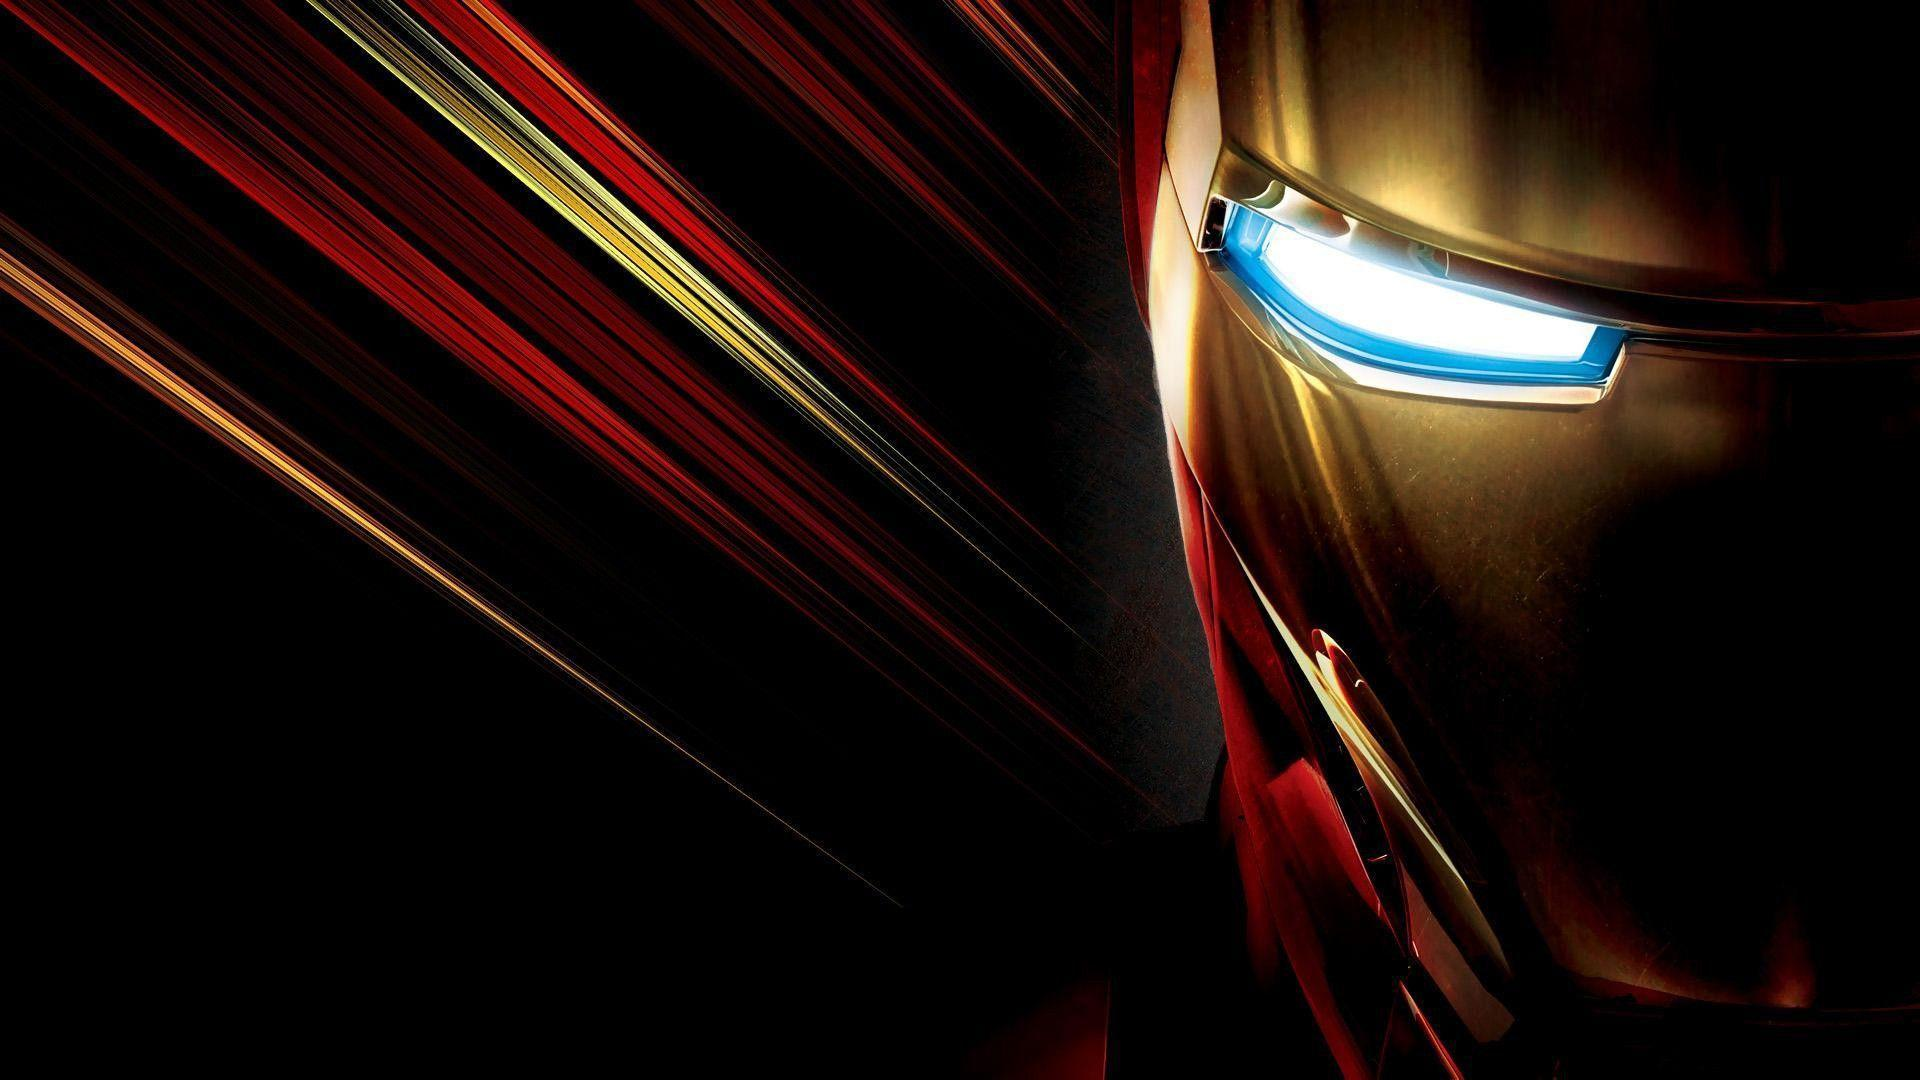
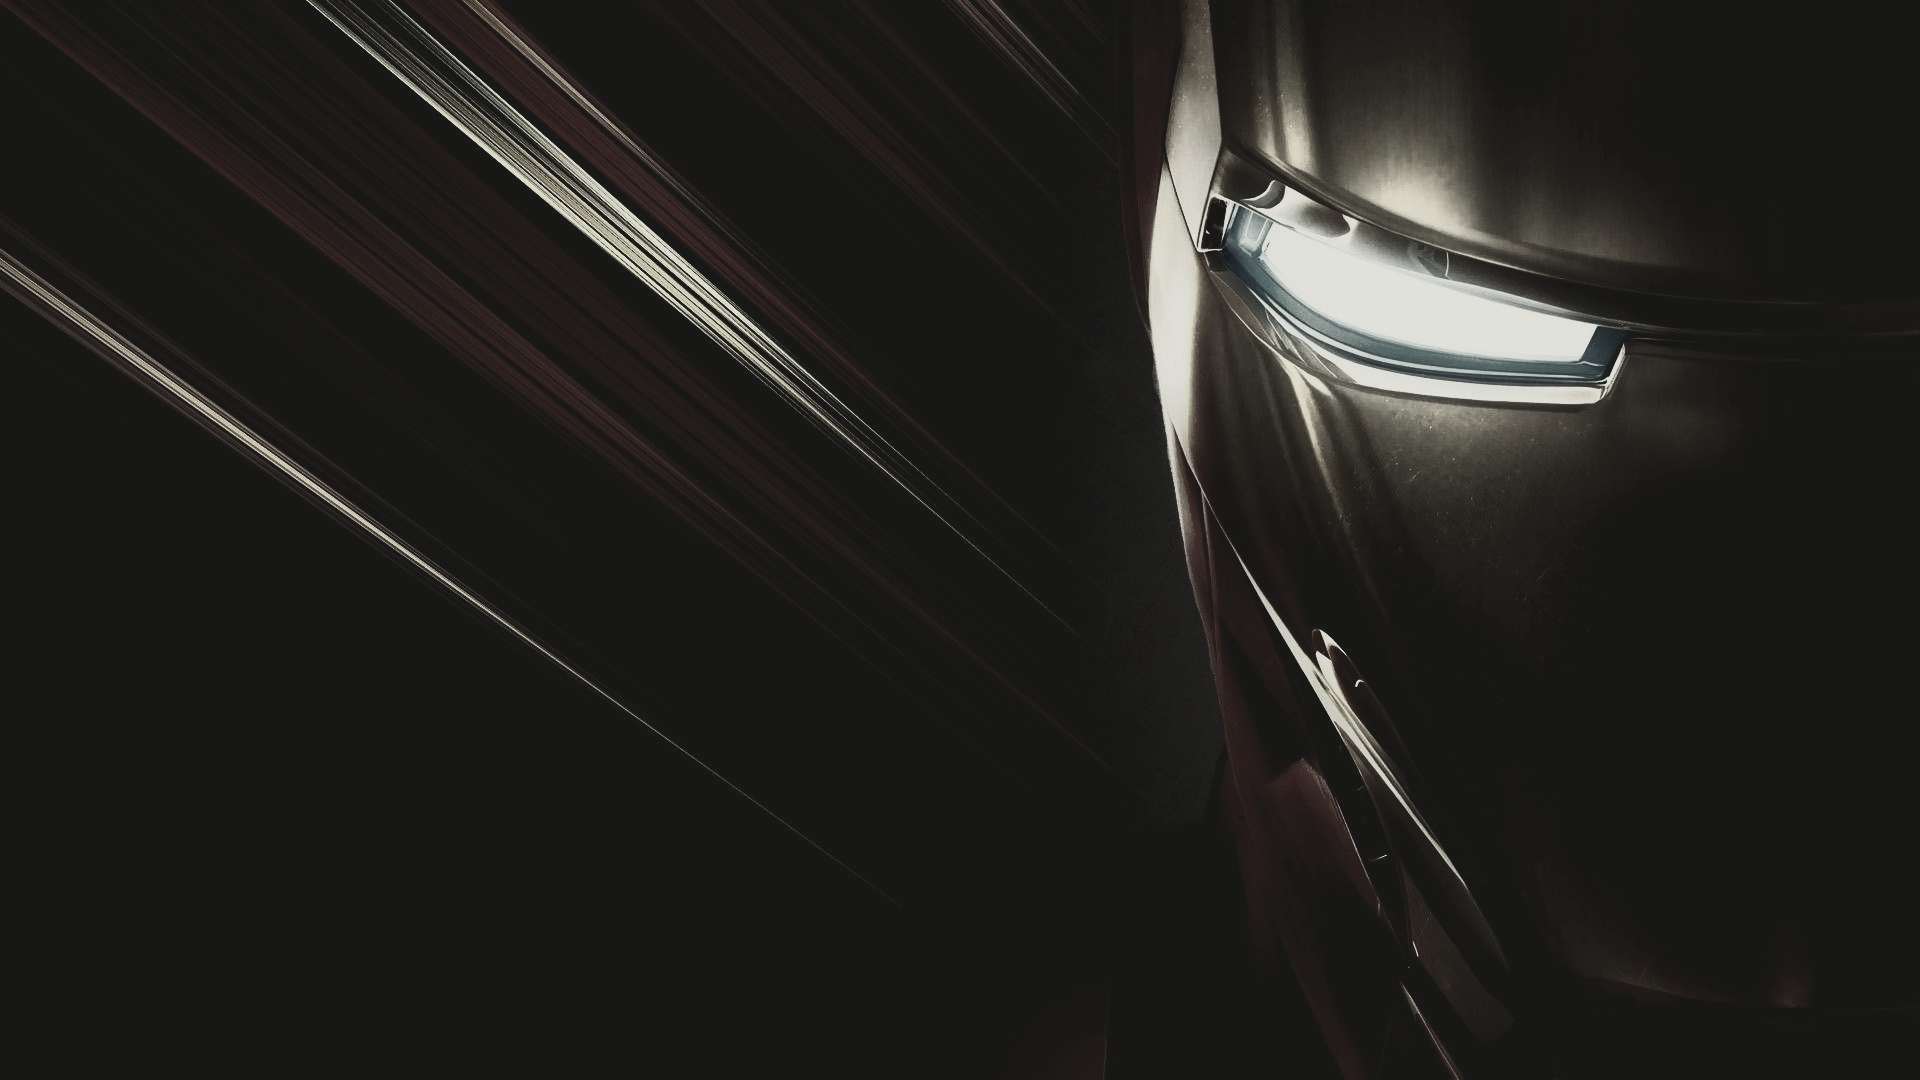
first website

diff --git a/styles.css b/styles.css
@@ -1,13 +1,17 @@
 body{
-    /* background-image: url(img/BG.jpg); */
+    background-image: url(img/BG.jpg);
     background-size: cover;
     font-family: sans-serif;
+  
+    
 }
 header{
    display: flex; 
    justify-content: space-between;
-   height: 100px;
+   height: 80px;
    align-items: center;
+   color:rgb(85, 83, 83);
+   
 }
 ul{
     list-style: none;
@@ -20,7 +24,8 @@ ul{
     width: 30px;
     transform: rotate(180deg);
     align-items: center;
-
+    color: white;
+    height: 70vh;
 }
 .sidebar-left li{
 margin:5px;
@@ -45,30 +50,33 @@ margin:5px;
 /* } */
 .circle{
     display: block;
-    width: 15px;
-    height: 15px;
-    background-color: black;
+    width: 7px;
+    height: 7px;
     border-radius: 50%;
+    background-color: white;
+}
+.active,.sidebar-item:hover {
+    color: rgb(224, 61, 36);
+    cursor: pointer ;
 }
 .flex{
     display: flex;
 }
+
 .orange-line{
     width: 100px;
     height: 3px;
-    background-color: rgb(216, 83, 7);
+    background-color: rgb(224, 61, 36);
     box-shadow: 0px 0px 3px 0px;
-    margin: 30px;
+    margin: 22px;
 }
 .text-iron{
-    color:rgb(216, 83, 7);
+    color:rgb(224, 61, 36);
     font-weight: 900px;
     font-size: 150px;
-    margin:92px 0;
+    margin:45px 0 0 0;
     text-align: right;
-}
-.main-footer{
-
+  
 }
 .main-footer span{
 font-size: 30px;
@@ -77,7 +85,7 @@ color: black;
 }
 .main-black-top-link::before{
     content: "";
-    background-color: rgb(216, 83, 7);
+    background-color: rgb(102, 85, 76);
     height: 15px;
     width: 15px;
     display: block;
@@ -113,9 +121,9 @@ color: black;
 .orange-button{
 text-align: center;
 padding: 10px 20px;
-background-color:rgb(216, 83, 7);
+background-color:rgb(224, 61, 36);
 color:white;
-border: 1px solid rgb(216, 83, 7);
+border: 1px solid rgb(224, 61, 36);
 border-radius: 2px;
 margin: 40px 80px 10px 0px;
 }
@@ -135,6 +143,8 @@ section{
 }
 .main-white{
     width: 40%;
+    background-color: white;
+    padding: 50px;
 }
 .main-black{
     width: 60%;  
@@ -149,31 +159,38 @@ section{
     color: white;
 }
 .front-man{
-    height: 100vh;
-    position: fixed;
-    top:15%;
-    left: 35%;
+    height: 90vh;
+    position: absolute;
+    top:22%;
+    left: 39%;
     z-index: 10;
+
 }
 .circle-zero{
-border: 2px solid black;
+border: 2px solid rgb(194, 192, 192);
 border-radius: 50%;
+height: 5px;
+width: 5px;
 }
 .circle-one{
     border: 2px solid rgb(121, 118, 118);
     border-radius: 50%;
+    height: 4px;
+    width: 4px;
+    
 }
 .sidebar-right{
-
+justify-content: center ;
     display: flex;
     flex-direction: column;
-    height: 40vh;
-    width: 30px;
+    height: 70vh;
+    width: 15px;
     align-items: center;
 
 }
-.circle-one, .circle-zero{
-    
-    height: 6px; 
-    width: 6px;
+
+.bg{
+    background-image: linear-gradient(to right, rgba(19, 17, 17, 0.884) , rgba(37, 37, 35, 0.904));
+margin: 40px;
+padding: 0 40px 40px 40px;
 }

diff --git a/index.html b/index.html
@@ -8,6 +8,7 @@
     <link rel="stylesheet" href="styles.css">
 </head>
 <body>
+  <div class="bg">
     <header>
       <div>
           <div class="box-shadow-menu ident"></div>
@@ -20,11 +21,11 @@
       
       <div class="sidebar">
           <ul class="sidebar-left">
-            <li class="sidebar-item">Captain America</li>
+            <li class="sidebar-item">CAPTAIN AMERICA</li>
             <li class="circle"></li>
-            <li class="sidebar-item">Spider Man</li>
+            <li class="sidebar-item">SPIDER MAN</li>
             <li class="circle"></li>
-            <li>Iron Man</li>
+            <li class="active">IRON MAN</li>
           </ul>
       </div>
      <div class="flex container"> 
@@ -62,6 +63,6 @@
         </ul>
       </div>
     </section>
-
+  </div>
 </body>
 </html>
